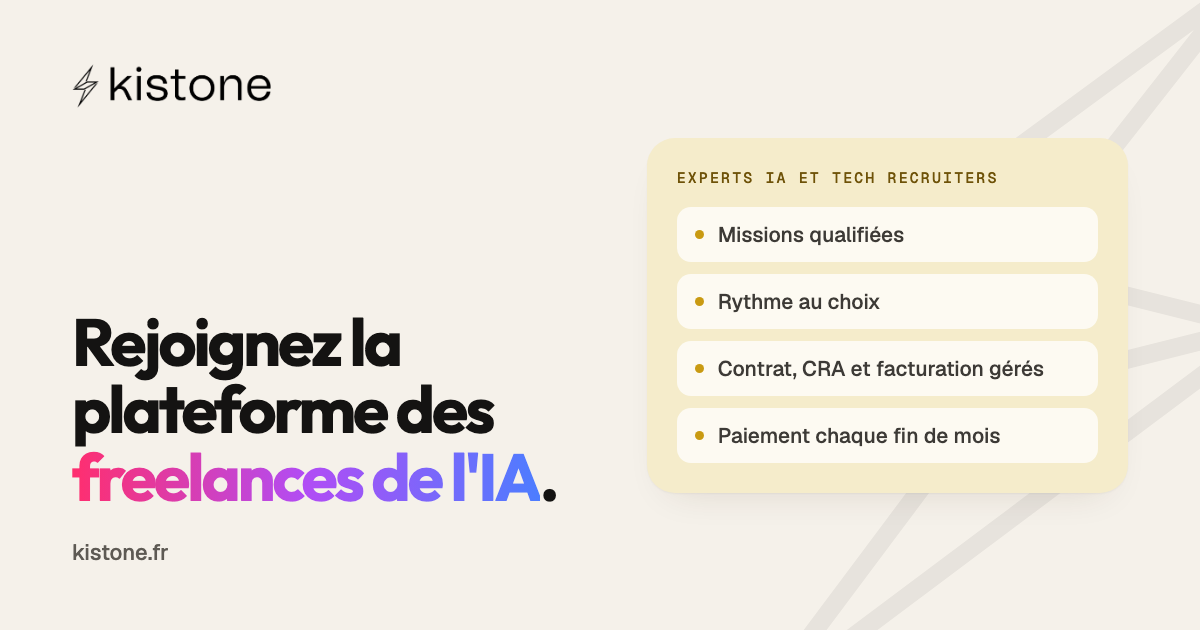
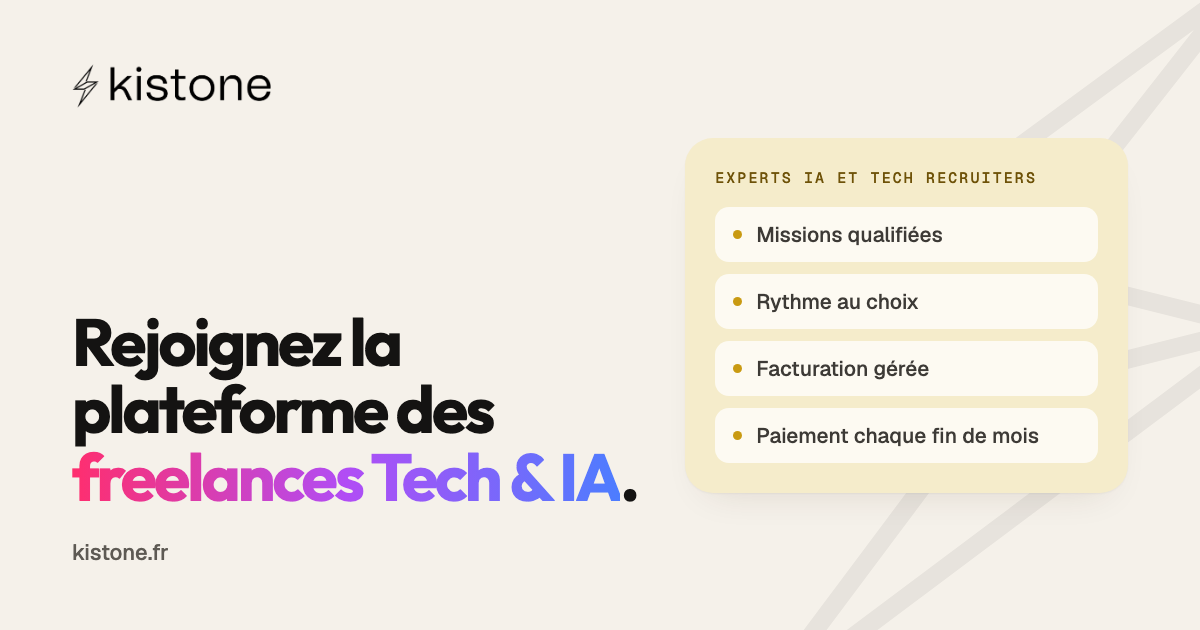
Espace freelance : « freelances Tech & IA » dans le titre, le référencement et l'image de partage

Changed region(s): [[0.3083, 0.2111, 0.8633, 0.8143]]

diff --git a/src/entry-server.tsx b/src/entry-server.tsx
@@ -27,7 +27,7 @@ export const LLMS_PAGES = [
   ...ROLE_PAGES.map((r) => ({ path: rolePath(r), title: r.seoTitle, desc: r.seoDescription })),
   ...MODEL_PAGES.map((m) => ({ path: modelPath(m), title: m.seoTitle, desc: m.seoDescription })),
   { path: "/pourquoi-kistone", title: "Pourquoi Kistone", desc: "La conviction d'Alexandre Guégo, fondateur : l'IA a totalement transformé la façon de travailler, et le freelance (mission, fractional, contract-to-hire) est le modèle pour accéder vite aux experts IA qualifiés." },
-  { path: "/freelances", title: "Espace freelance", desc: "Rejoindre la plateforme des freelances de l'IA : missions qualifiées pour AI Engineers, AI Product, AI Leaders et Tech recruiters, rémunération transparente payée chaque fin de mois, rythme au choix, contrat, CRA et facturation gérés. Inscription gratuite." },
+  { path: "/freelances", title: "Espace freelance", desc: "Rejoindre la plateforme des freelances Tech & IA : missions qualifiées pour AI Engineers, AI Product, AI Leaders et Tech recruiters, rémunération transparente payée chaque fin de mois, rythme au choix, contrat, CRA et facturation gérés. Inscription gratuite." },
   { path: "/ressources", title: "Ressources", desc: "Analyses et guides sur les projets IA, les formats d'intervention (mission freelance, fractional, contract-to-hire) et le recrutement des talents IA." },
   { path: COMPARISON_PATH, title: COMPARISON.seoTitle, desc: COMPARISON.seoDescription },
   { path: "/studio", title: "Studio IA", desc: "Outils RH sur mesure (onboarding, assistant RH, tri de candidatures) conçus et livrés par Kistone." },

diff --git a/src/pages/FreelancesPage.tsx b/src/pages/FreelancesPage.tsx
@@ -157,7 +157,7 @@ export default function FreelancesPage() {
   return (
     <SiteLayout>
       <SEO
-        title="Freelances de l'IA et Tech recruiters : rejoignez Kistone"
+        title="Freelances Tech & IA : rejoignez la plateforme Kistone"
         description="AI Engineers, AI Product, AI Leaders et Tech recruiters : missions qualifiées, paiement chaque mois, rythme au choix, facturation gérée. Inscription gratuite."
         path="/freelances"
         image="/og/freelances.png"
@@ -169,7 +169,7 @@ export default function FreelancesPage() {
         <BoltWatermark strokeWidth={14} className="-right-24 -top-24 h-[640px] w-auto rotate-[14deg] md:h-[760px]" />
         <div>
           <h1 className="font-ks-display text-[44px] font-bold leading-[1.02] tracking-[-0.048em] sm:text-[60px] lg:text-[68px]">
-            Rejoignez la plateforme des <Highlight>freelances de l'IA</Highlight>
+            Rejoignez la plateforme des <Highlight>freelances Tech & IA</Highlight>
           </h1>
           <p className="mt-6 max-w-[620px] text-lg leading-[1.5] text-ks-soft md:text-xl">
             AI Engineers, AI Product, AI Leaders ou Tech recruiters : des missions qualifiées, au rythme que vous choisissez. Une rémunération transparente, payée chaque fin de mois. L'administratif, on s'en occupe.
